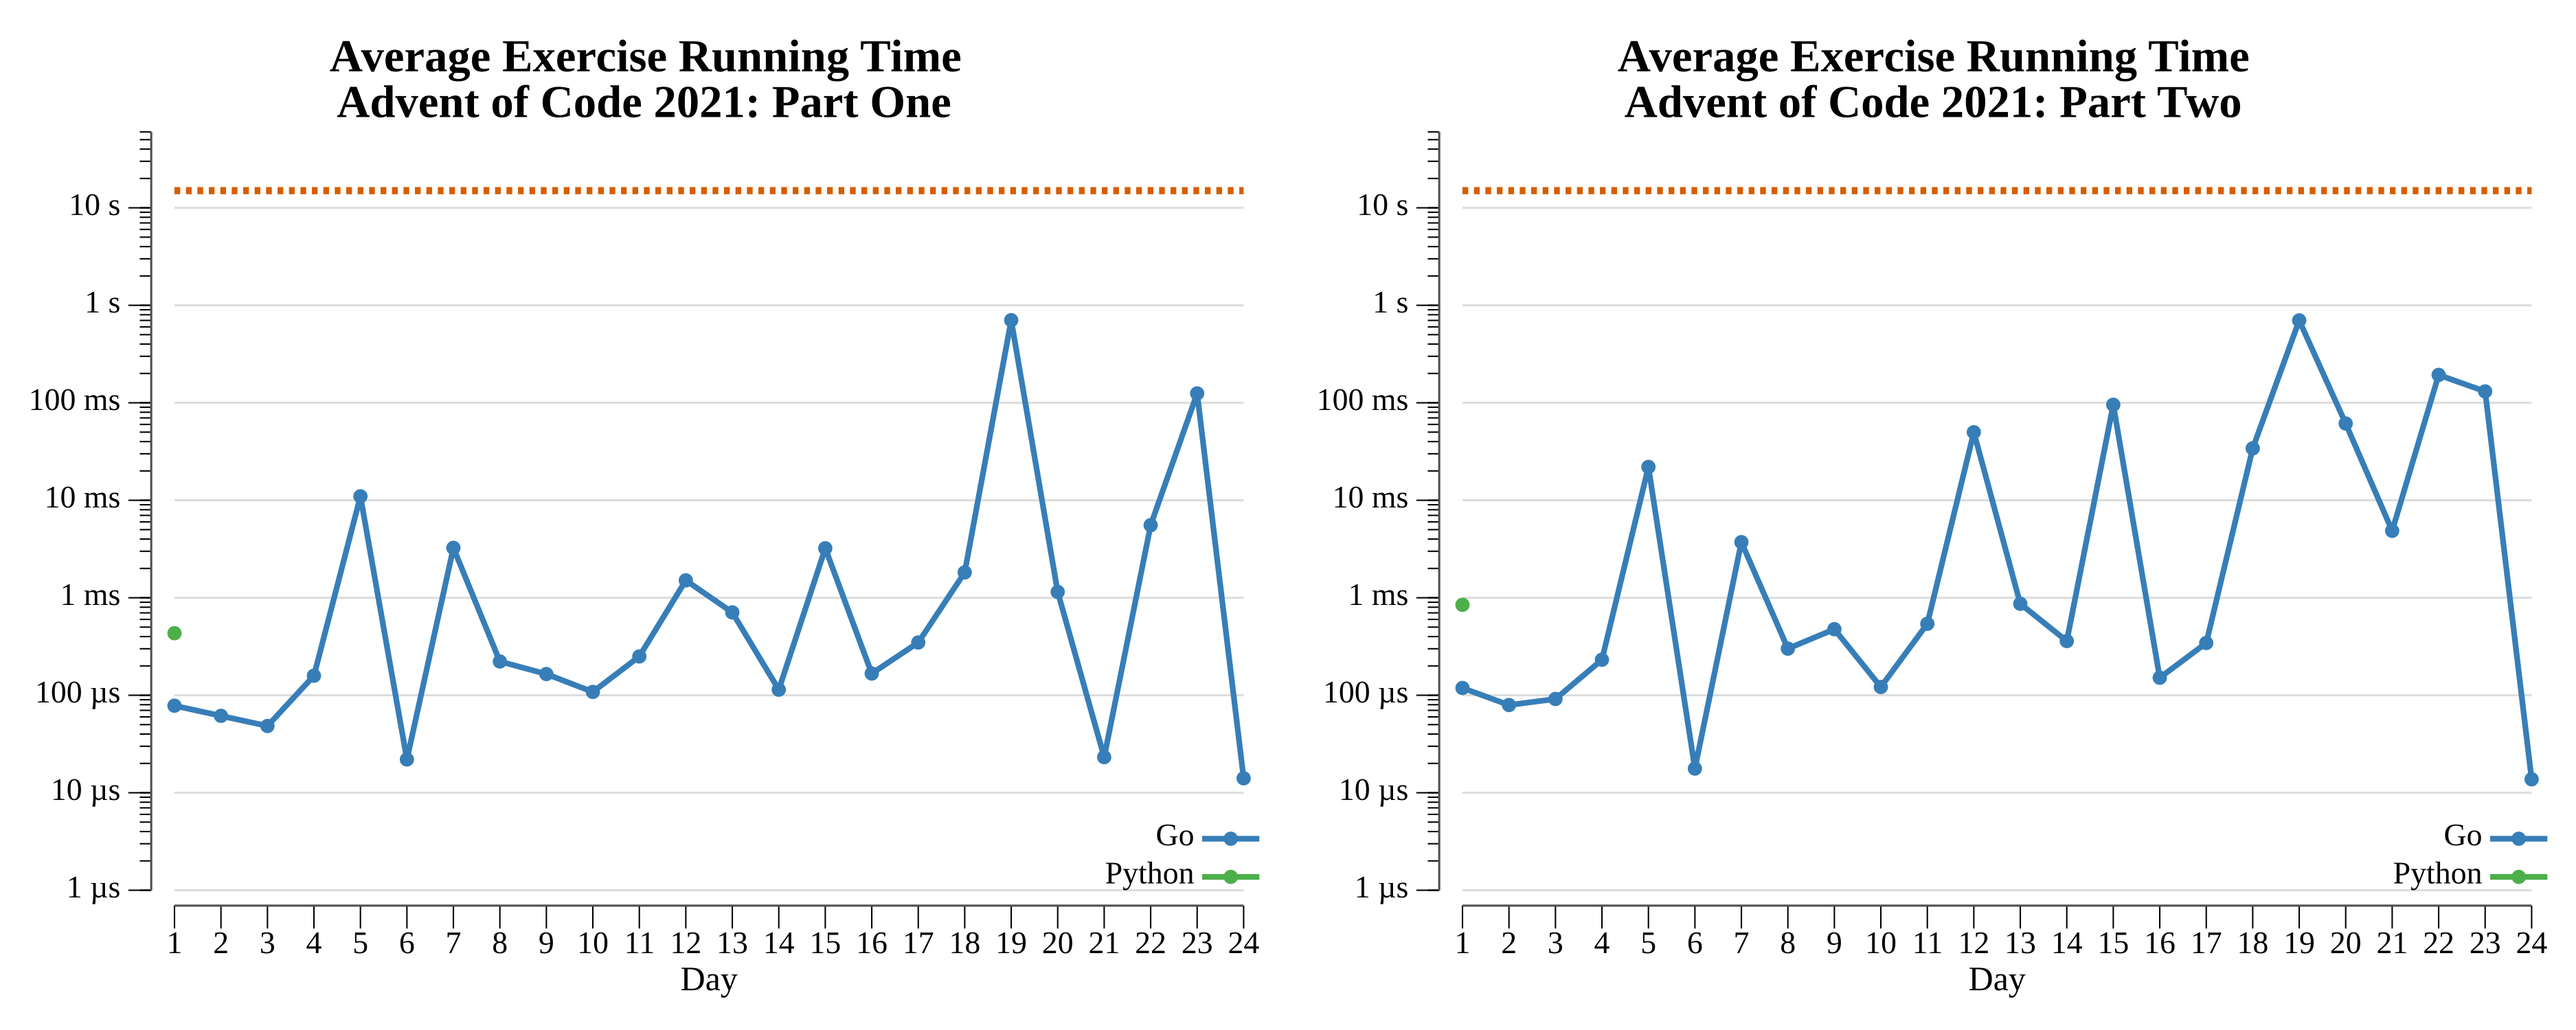
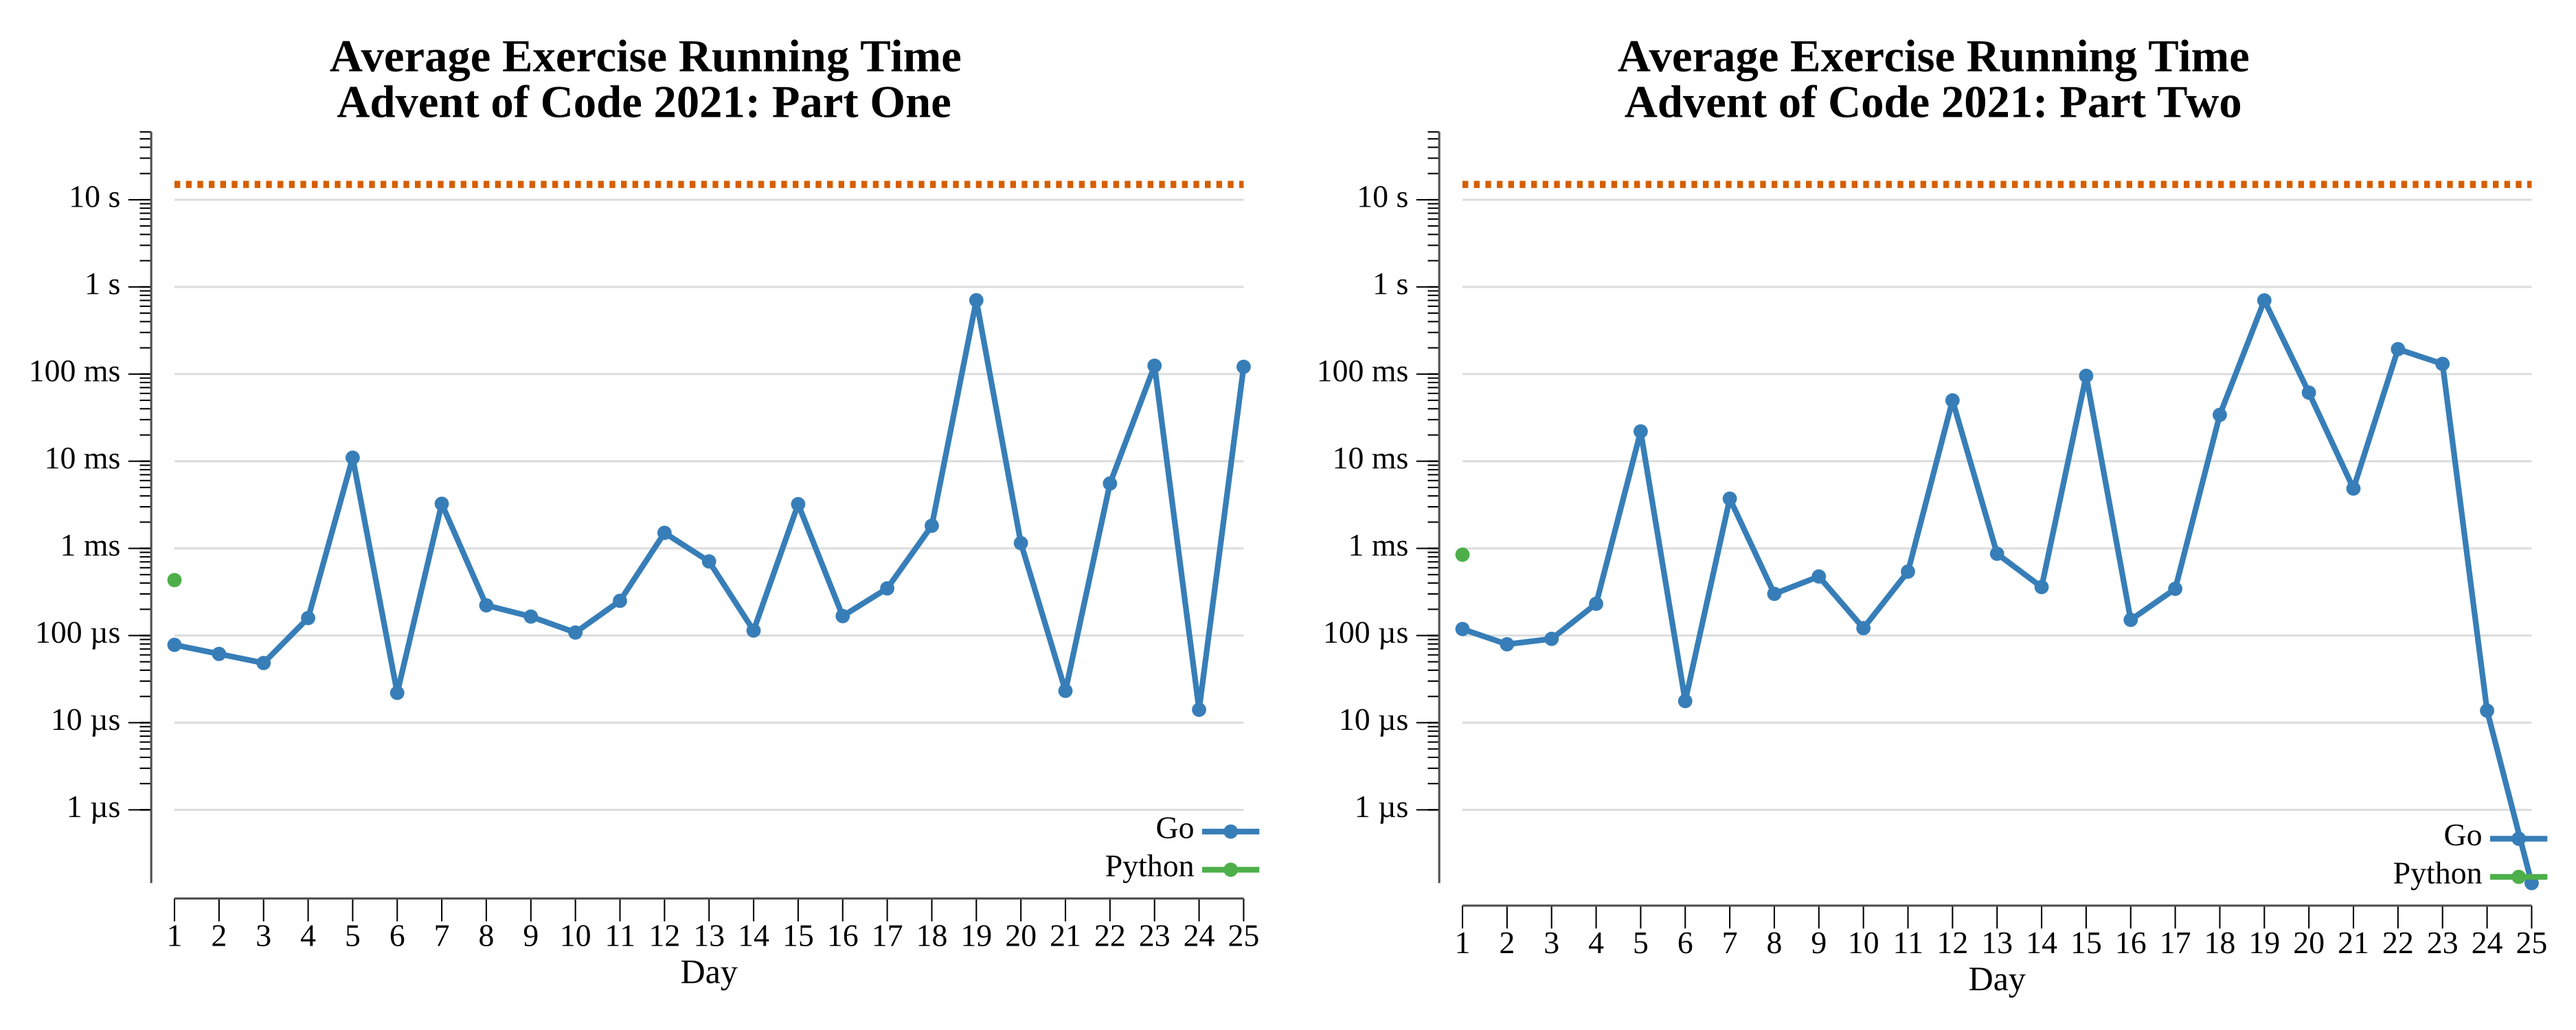
2021 day 25

diff --git a/exercises/2021/25-seaCucumber/go/vis.go b/exercises/2021/25-seaCucumber/go/vis.go
@@ -1,0 +1,94 @@
+package exercises
+
+import (
+	"image"
+	"image/color"
+	"image/gif"
+	"os"
+	"path/filepath"
+)
+
+// Vis animates the sea cucumber herds settling into gridlock (GIF). The east herd
+// and south herd are drawn in two well-separated colorblind-safe colors that also
+// differ strongly in brightness, so the two flows stay distinct in grayscale. The
+// animation samples steps so the file stays small while still showing the herds
+// sliding, congesting, and finally freezing.
+func (e Exercise) Vis(instr, outdir string) error {
+	g := parseGrid(instr)
+
+	const (
+		scale     = 3
+		maxFrames = 80
+	)
+
+	// Okabe-Ito with a wide luminance gap so the herds separate in grayscale:
+	// yellow (bright) for east, blue (dark) for south, over a near-black
+	// seafloor. Palette index 0 = floor, 1 = east, 2 = south.
+	pal := color.Palette{
+		color.RGBA{0x0d, 0x0f, 0x18, 0xff},
+		color.RGBA{0xF0, 0xE4, 0x42, 0xff}, // '>' east, bright
+		color.RGBA{0x00, 0x72, 0xB2, 0xff}, // 'v' south, dark
+	}
+
+	W, H := g.w*scale, g.h*scale
+	var frames []*image.Paletted
+	var delays []int
+
+	// Estimate total steps to pick a sampling stride, then re-run capturing.
+	total := 1
+	tmp := g
+	tmp.cells = append([]byte(nil), g.cells...)
+	for step(&tmp) {
+		total++
+	}
+	stride := (total + maxFrames - 1) / maxFrames
+	if stride < 1 {
+		stride = 1
+	}
+
+	capture := func(cur grid) {
+		img := image.NewPaletted(image.Rect(0, 0, W, H), pal)
+		for y := 0; y < cur.h; y++ {
+			for x := 0; x < cur.w; x++ {
+				var idx uint8
+				switch cur.at(x, y) {
+				case '>':
+					idx = 1
+				case 'v':
+					idx = 2
+				}
+				if idx == 0 {
+					continue
+				}
+				for dy := 0; dy < scale; dy++ {
+					for dx := 0; dx < scale; dx++ {
+						img.SetColorIndex(x*scale+dx, y*scale+dy, idx)
+					}
+				}
+			}
+		}
+		frames = append(frames, img)
+		delays = append(delays, 8)
+	}
+
+	// Replay, capturing every `stride` steps plus the final frozen state.
+	run := g
+	run.cells = append([]byte(nil), g.cells...)
+	i := 0
+	capture(run)
+	for step(&run) {
+		i++
+		if i%stride == 0 {
+			capture(run)
+		}
+	}
+	capture(run) // final frozen frame
+	delays[len(delays)-1] = 300
+
+	f, err := os.Create(filepath.Join(outdir, "sea-cucumber.gif"))
+	if err != nil {
+		return err
+	}
+	defer f.Close()
+	return gif.EncodeAll(f, &gif.GIF{Image: frames, Delay: delays})
+}

diff --git a/exercises/2021/25-seaCucumber/go/exercise.go b/exercises/2021/25-seaCucumber/go/exercise.go
@@ -1,0 +1,90 @@
+package exercises
+
+import (
+	"fmt"
+	"strings"
+
+	"github.com/asphaltbuffet/advent-of-code/internal/common"
+)
+
+// Exercise for Advent of Code 2021 day 25.
+type Exercise struct {
+	common.BaseExercise
+}
+
+// grid is a toroidal seafloor: rows of '.', '>' (east herd) and 'v' (south herd).
+type grid struct {
+	cells []byte
+	w, h  int
+}
+
+func parseGrid(instr string) grid {
+	lines := strings.Split(strings.TrimSpace(instr), "\n")
+	g := grid{h: len(lines), w: len(lines[0])}
+	g.cells = make([]byte, g.w*g.h)
+	for y, line := range lines {
+		copy(g.cells[y*g.w:], line)
+	}
+	return g
+}
+
+func (g grid) at(x, y int) byte { return g.cells[y*g.w+x] }
+
+// step advances one move: the east herd moves, then the south herd moves against
+// the already-updated grid. It reports whether any cucumber moved.
+func step(g *grid) bool {
+	moved := false
+
+	// East herd.
+	next := make([]byte, len(g.cells))
+	copy(next, g.cells)
+	for y := 0; y < g.h; y++ {
+		for x := 0; x < g.w; x++ {
+			if g.at(x, y) != '>' {
+				continue
+			}
+			nx := (x + 1) % g.w
+			if g.at(nx, y) == '.' {
+				next[y*g.w+x] = '.'
+				next[y*g.w+nx] = '>'
+				moved = true
+			}
+		}
+	}
+	g.cells = next
+
+	// South herd (against the east-updated grid).
+	next = make([]byte, len(g.cells))
+	copy(next, g.cells)
+	for y := 0; y < g.h; y++ {
+		for x := 0; x < g.w; x++ {
+			if g.at(x, y) != 'v' {
+				continue
+			}
+			ny := (y + 1) % g.h
+			if g.at(x, ny) == '.' {
+				next[y*g.w+x] = '.'
+				next[ny*g.w+x] = 'v'
+				moved = true
+			}
+		}
+	}
+	g.cells = next
+
+	return moved
+}
+
+// One counts the steps until no sea cucumber can move.
+func (e Exercise) One(instr string) (any, error) {
+	g := parseGrid(instr)
+	count := 1
+	for step(&g) {
+		count++
+	}
+	return fmt.Sprintf("%d", count), nil
+}
+
+// Two is the free star for completing all other days; there is no puzzle here.
+func (e Exercise) Two(_ string) (any, error) {
+	return "Merry Christmas!", nil
+}

diff --git a/exercises/2021/25-seaCucumber/README.md b/exercises/2021/25-seaCucumber/README.md
@@ -1,0 +1,52 @@
+# [Day 25: Sea Cucumber](https://adventofcode.com/2021/day/25)
+
+<!-- These are helper text to make formatting the yearly readme consistent and easier...
+
+[Day 25: Sea Cucumber][rm25]
+[Go][go25]
+
+[rm25]: 25-seaCucumber/README.md
+[go25]: 25-seaCucumber/go
+
+-->
+
+## Notes
+
+A cellular automaton on a torus. Each step the east-facing herd (`>`) moves
+first, then the south-facing herd (`v`). Within a herd every cucumber evaluates
+against a single snapshot and moves simultaneously — a cucumber moves only if the
+cell ahead (wrapping around the edge) is empty. The answer is the first step on
+which nothing moves.
+
+The one subtlety is phasing: the east herd must fully resolve before the south
+herd looks at the grid, so the two sweeps use separate snapshots. Interleaving
+per cell would let a cucumber move twice in one step.
+
+As the day 25 finale, Part Two is the free star awarded for completing every
+other day, so it simply returns "Merry Christmas!".
+
+## Go
+
+```text
+────────────────────────────────────────
+─      2021 Day 25: Sea Cucumber       ─
+────────────────────────────────────────
+
+Solving (Go)…
+1.0:  PASS           109.008ms
+2.0:  PASS             0.000ms
+```
+
+## Visualization
+
+The herds settling into gridlock, animated. The east herd is bright yellow and
+the south herd is dark blue over a near-black seafloor — two colors chosen for a
+wide luminance gap, so the flows stay distinct in grayscale as well as color. The
+animation samples steps to stay small while still showing the herds sliding into
+diagonal bands, congesting, and finally freezing.
+
+![Sea cucumber herds settling](sea-cucumber.gif)
+
+## Run Times
+
+![Day 25 run-time graphs](run-times.png)

diff --git a/exercises/2021/README.md b/exercises/2021/README.md
@@ -30,7 +30,7 @@
 | [Day 22: Reactor Reboot](22-reactorReboot/README.md) |  ★ ★  | [Go](22-reactorReboot/go)                          |
 | [Day 23: Amphipod](23-amphipod/README.md)     |  ★ ★  | [Go](23-amphipod/go)                               |
 | [Day 24: Arithmetic Logic Unit](24-arithmeticLogicUnit/README.md) |  ★ ★  | [Go](24-arithmeticLogicUnit/go)                    |
-| 25                                            |  ☆ ☆  |                                                    |
+| [Day 25: Sea Cucumber](25-seaCucumber/README.md) |  ★ ★  | [Go](25-seaCucumber/go)                            |
 
 ## 2021 Run Times
 
